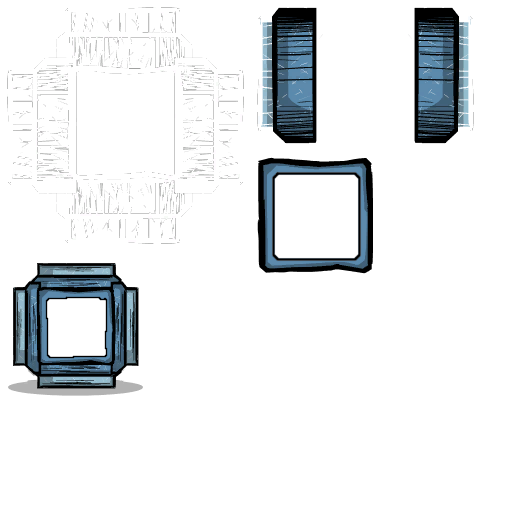
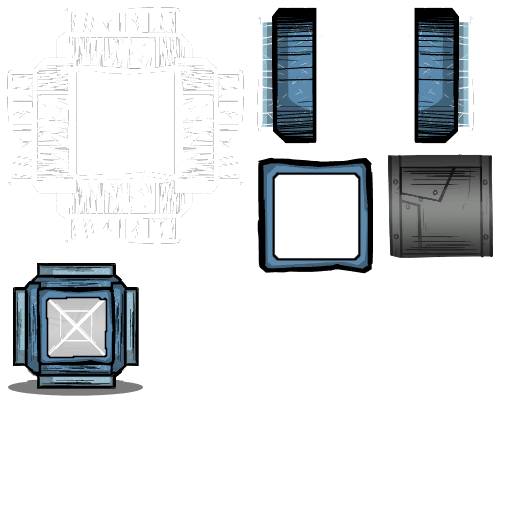
TravelTubesExpanded: anim tuning because of the new rendering of liquids

diff --git a/src/TravelTubesExpanded/TravelTubeDoorConfig.cs b/src/TravelTubesExpanded/TravelTubeDoorConfig.cs
@@ -39,7 +39,7 @@ namespace TravelTubesExpanded
             def.PermittedRotations = PermittedRotations.R90;
             def.UtilityInputOffset = new CellOffset(0, 0);
             def.UtilityOutputOffset = new CellOffset(0, 2);
-            def.SceneLayer = Grid.SceneLayer.TileMain;
+            def.SceneLayer = Grid.SceneLayer.BuildingFront;
             def.ForegroundLayer = Grid.SceneLayer.BuildingBack;
             def.LogicInputPorts = DoorConfig.CreateSingleInputPortList(new CellOffset(0, 0));
             PGameUtils.CopySoundsToAnim(anim, "door_external_kanim");
@@ -59,6 +59,7 @@ namespace TravelTubesExpanded
             go.AddOrGet<TileTemperature>();
             go.AddOrGet<TravelTubeBridge>();
             go.AddOrGet<OccupyArea>().objectLayers = new ObjectLayer[] { ObjectLayer.TravelTubeConnection };
+            go.GetComponent<KPrefabID>().prefabInitFn += OnPrefabInit;
         }
 
         public override void DoPostConfigureComplete(GameObject go)
@@ -77,6 +78,44 @@ namespace TravelTubesExpanded
             go.AddOrGet<KBoxCollider2D>();
             Prioritizable.AddRef(go);
             Object.DestroyImmediate(go.GetComponent<BuildingEnabledButton>());
+        }
+
+        private static new void OnPrefabInit(GameObject inst)
+        {
+            foreach (var kbac in inst.GetComponentsInChildrenOnly<KBatchedAnimController>())
+            {
+                if (kbac.name.Contains("_fg"))
+                {
+                    AddSecondaryFGKbac(kbac, Grid.SceneLayer.TileMain, "wall_piece_fg");
+                    break;
+                }
+            }
+        }
+
+        // извращение изза особенностей рендеринга жыдкостей начиная с У59
+        // придётся делить постройку на три слоя (основа с боковинами - в жыже, передник и задник - без жыжы)
+        // для этого добавим третий кбак, как дочерний к уже существующему фг кбаку
+        // путём трюка с лауеринг. при этом все символы в старом кбаке станут скрытыми
+        // нужно скрыть и показать нужные символы
+        internal static void AddSecondaryFGKbac(KBatchedAnimController parent, Grid.SceneLayer layer, params HashedString[] symbols)
+        {
+            parent.SetBlendValue(KBatchedAnimInstanceData.BlendActiveOptions.LiquidVisibilityLayer, false);
+            parent.SetBlendValue(KBatchedAnimInstanceData.BlendActiveOptions.WaterProof, true);
+            parent.SetFGLayer(layer);
+            var layering = parent.GetLayering();
+            layering.SetIsLayer(false);
+            layering.HideSymbols();
+            layering.SetIsLayer(true);
+            foreach (var symbol in symbols)
+                parent.SetSymbolVisiblity(symbol, true);
+            if (layering.layerControllers.TryGetValue(KAnim.SymbolFlags.FG, out var kbas) && kbas is KBatchedAnimController kbac)
+            {
+                foreach (var symbol in symbols)
+                    kbac.SetSymbolVisiblity(symbol, false);
+                kbac.SetSceneLayer(layer);
+                kbac.SetBlendValue(KBatchedAnimInstanceData.BlendActiveOptions.LiquidVisibilityLayer, false);
+                kbac.SetBlendValue(KBatchedAnimInstanceData.BlendActiveOptions.WaterProof, true);
+            }
         }
     }
 }

diff --git a/src/TravelTubesExpanded/TravelTubeCrossBridgeConfig.cs b/src/TravelTubesExpanded/TravelTubeCrossBridgeConfig.cs
@@ -38,7 +38,7 @@ namespace TravelTubesExpanded
             def.UtilityInputOffset = new CellOffset(0, 0);
             def.UtilityOutputOffset = new CellOffset(0, 2);
             def.SceneLayer = Grid.SceneLayer.BuildingFront;
-            def.ForegroundLayer = Grid.SceneLayer.TileMain;
+            def.ForegroundLayer = Grid.SceneLayer.BuildingBack;
             def.AddSearchTerms(global::STRINGS.SEARCH_TERMS.TRANSPORT);
             def.AddSearchTerms(global::STRINGS.SEARCH_TERMS.TILE);
             return def;
@@ -55,6 +55,7 @@ namespace TravelTubesExpanded
             go.AddOrGet<TileTemperature>();
             go.AddOrGet<TravelTubeBridge>();
             go.AddOrGet<OccupyArea>().objectLayers = new ObjectLayer[] { ObjectLayer.TravelTubeConnection };
+            go.GetComponent<KPrefabID>().prefabInitFn += OnPrefabInit;
         }
 
         public override void DoPostConfigureComplete(GameObject go)
@@ -75,6 +76,18 @@ namespace TravelTubesExpanded
             second.link2 = new CellOffset(1, 0);
             second.visualizeOnly = true;
             return first;
+        }
+
+        private static new void OnPrefabInit(GameObject inst)
+        {
+            foreach (var kbac in inst.GetComponentsInChildrenOnly<KBatchedAnimController>())
+            {
+                if (kbac.name.Contains("_fg"))
+                {
+                    TravelTubeDoorConfig.AddSecondaryFGKbac(kbac, Grid.SceneLayer.TileMain, "backwall_fg");
+                    break;
+                }
+            }
         }
     }
 }

diff --git a/src/TravelTubesExpanded/EntranceFakeTubes.cs b/src/TravelTubesExpanded/EntranceFakeTubes.cs
@@ -1,4 +1,5 @@
-using UnityEngine;
+using System;
+using UnityEngine;
 
 namespace TravelTubesExpanded
 {
@@ -36,7 +37,7 @@ namespace TravelTubesExpanded
             int y = (int)transform.GetPosition().y;
             var extents = new Extents(x, y + 2, 1, 1);
             bridgeChangedEntry = GameScenePartitioner.Instance.Add("TravelTubeEntrance.TubeListener", gameObject, extents,
-                GameScenePartitioner.Instance.objectLayers[(int)ObjectLayer.TravelTubeConnection], TubeChanged);
+                GameScenePartitioner.Instance.objectLayers[(int)ObjectLayer.TravelTubeConnection], TubeChangedDelegate, this);
         }
 
         public override void OnCleanUp()
@@ -53,6 +54,7 @@ namespace TravelTubesExpanded
             base.OnCleanUp();
         }
 
+        private static readonly Action<object, object> TubeChangedDelegate = (cmp, data) => ((EntranceFakeTubes)cmp).TubeChanged(data);
         private void TubeChanged(object data)
         {
             if (entrance.travelTube == null)

diff --git a/src/AquaticFarm/AquaticFarm.cs b/src/AquaticFarm/AquaticFarm.cs
@@ -20,7 +20,7 @@
             consumers = GetComponents<PassiveElementConsumer>();
             hOccupantChanged = Subscribe((int)GameHashes.OccupantChanged, RefreshConsumptionDelegate, this);
             partitionerEntry = GameScenePartitioner.Instance.Add("AquaticFarm.OnSpawn", gameObject, building.GetValidPlacementExtents(),
-                GameScenePartitioner.Instance.liquidChangedLayer, RefreshConsumptionDelegate);
+                GameScenePartitioner.Instance.liquidChangedLayer, RefreshConsumptionDelegate, this);
             RefreshConsumption(plantablePlot.Occupant);
         }
 

diff --git a/src/TravelTubesExpanded/TravelTubeBunkerWallBridgeConfig.cs b/src/TravelTubesExpanded/TravelTubeBunkerWallBridgeConfig.cs
@@ -56,7 +56,9 @@ namespace TravelTubesExpanded
             go.AddOrGet<TileTemperature>();
             go.AddOrGet<TravelTubeBridge>();
             go.AddOrGet<OccupyArea>().objectLayers = new ObjectLayer[] { ObjectLayer.TravelTubeConnection };
-            go.AddOrGet<KPrefabID>().AddTag(GameTags.Bunker);
+            var kPrefabID = go.GetComponent<KPrefabID>();
+            kPrefabID.AddTag(GameTags.Bunker);
+            kPrefabID.prefabInitFn += OnPrefabInit;
         }
     }
 }

diff --git a/src/TravelTubesExpanded/TravelTubeInsulatedWallBridgeConfig.cs b/src/TravelTubesExpanded/TravelTubeInsulatedWallBridgeConfig.cs
@@ -57,6 +57,7 @@ namespace TravelTubesExpanded
             go.AddOrGet<TileTemperature>();
             go.AddOrGet<TravelTubeBridge>();
             go.AddOrGet<OccupyArea>().objectLayers = new ObjectLayer[] { ObjectLayer.TravelTubeConnection };
+            go.GetComponent<KPrefabID>().prefabInitFn += OnPrefabInit;
         }
 
         public override void ConfigurePost(BuildingDef def)
